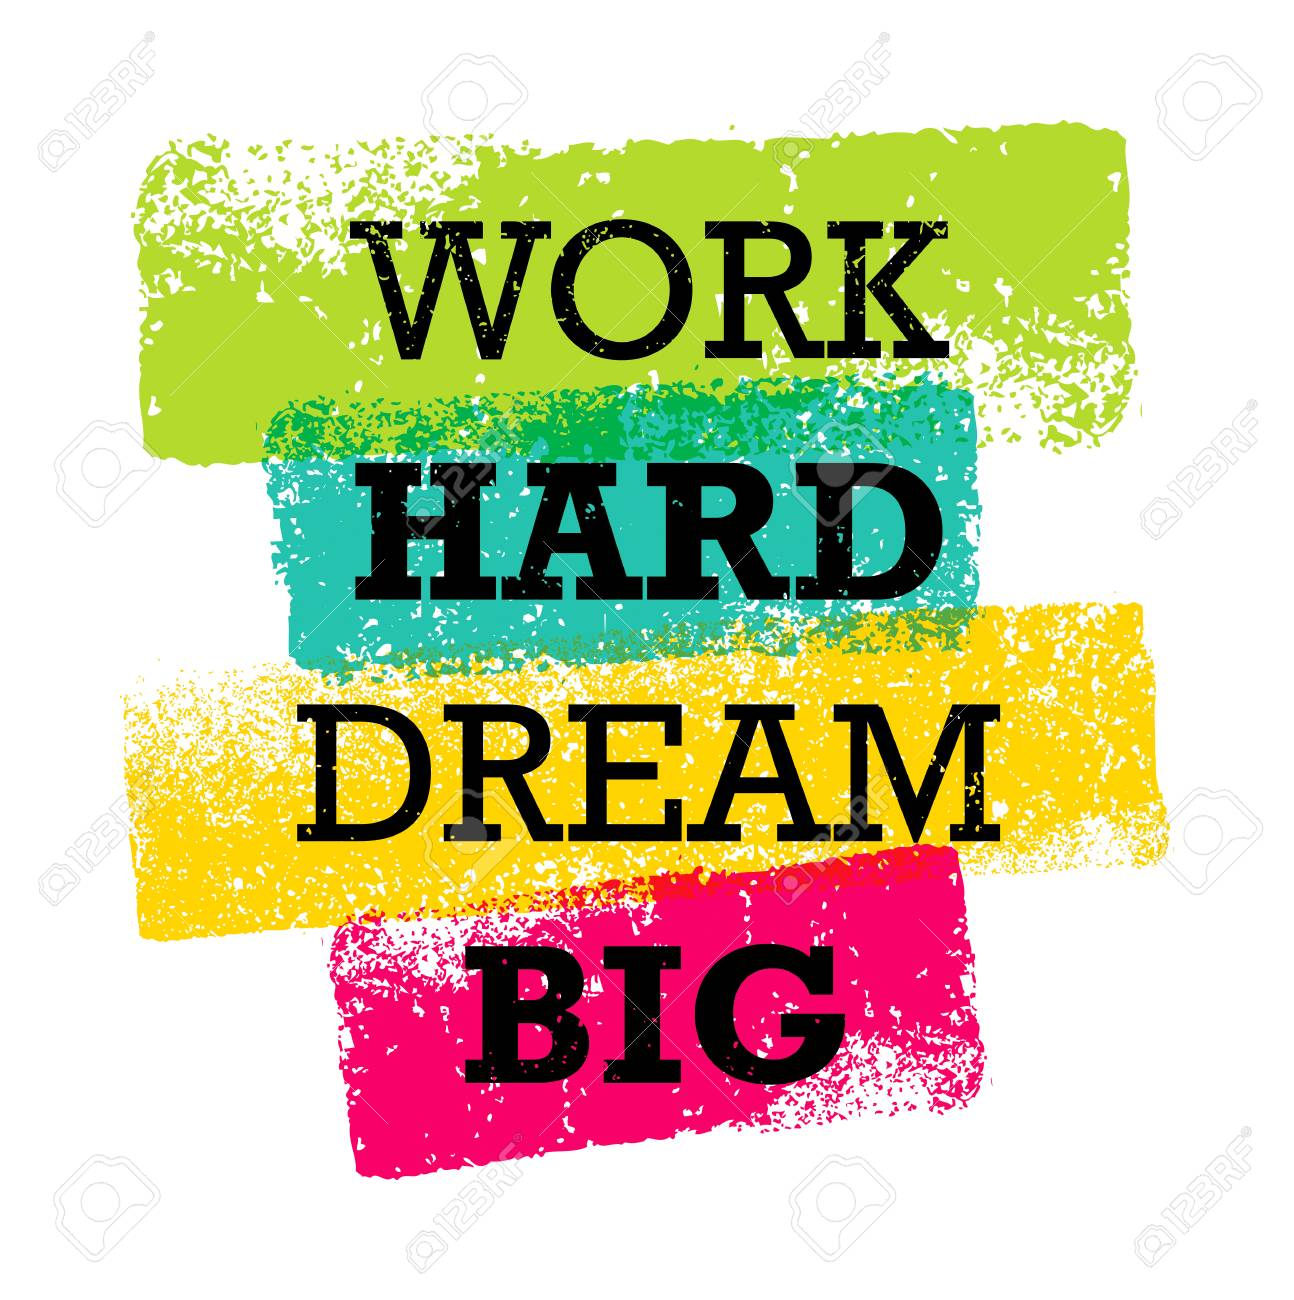
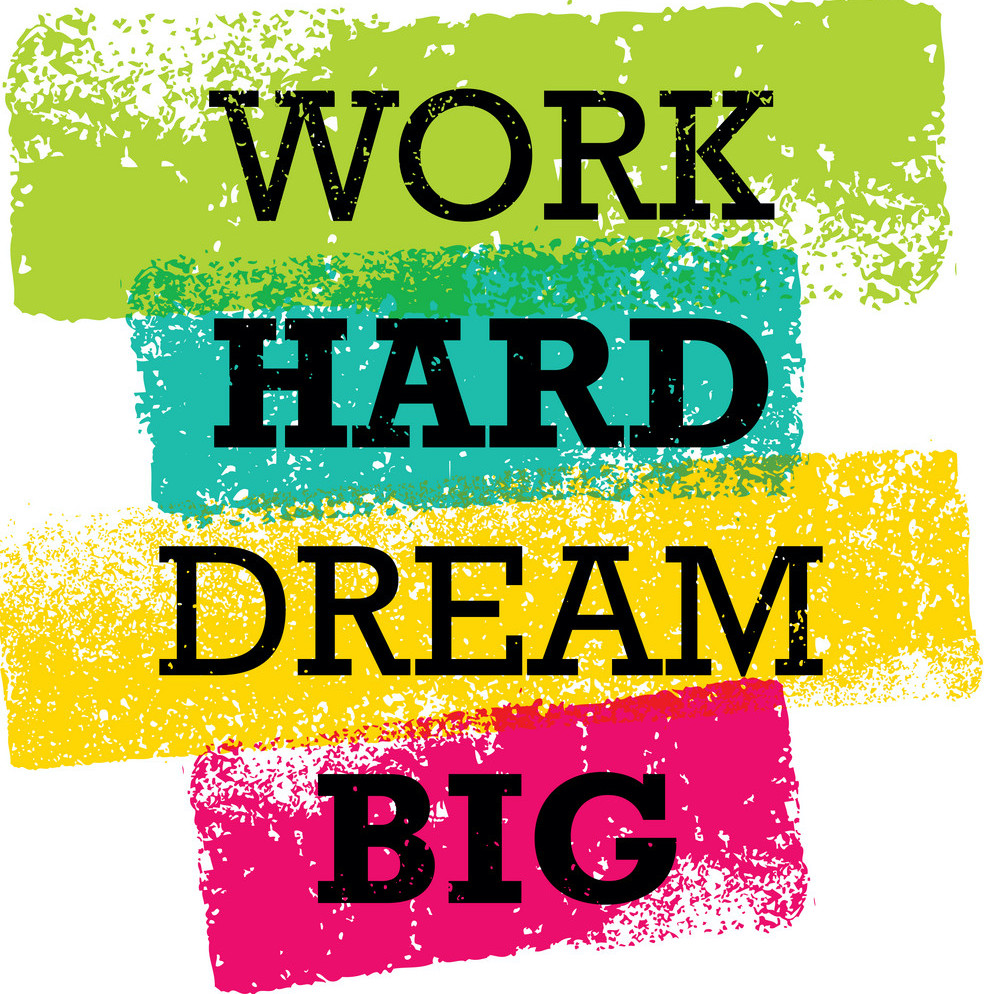
Site rebuild Sun Dec 29 23:50:05 CST 2019

diff --git a/content/post/2019-12-29-感觉今天自己被碾压了.html b/content/post/2019-12-29-感觉今天自己被碾压了.html
@@ -13,4 +13,7 @@ ToC: false
 
 
 <p>其实已经在 <strong>shared</strong> 里面提高了这次会面的事情，不过还是单独拿出来做一遍博客，以此来警惕自己，未来还需要在技术的道路上更加努力，深入把握技术的每一个细节。</p>
-<p><img src="/images/work-hard-dream-big.jpg" /></p>
+<div class="figure">
+<img src="/images/work-hard-dream-big.jpg" alt="胸有大志，脚踏实地" />
+<p class="caption">胸有大志，脚踏实地</p>
+</div>
